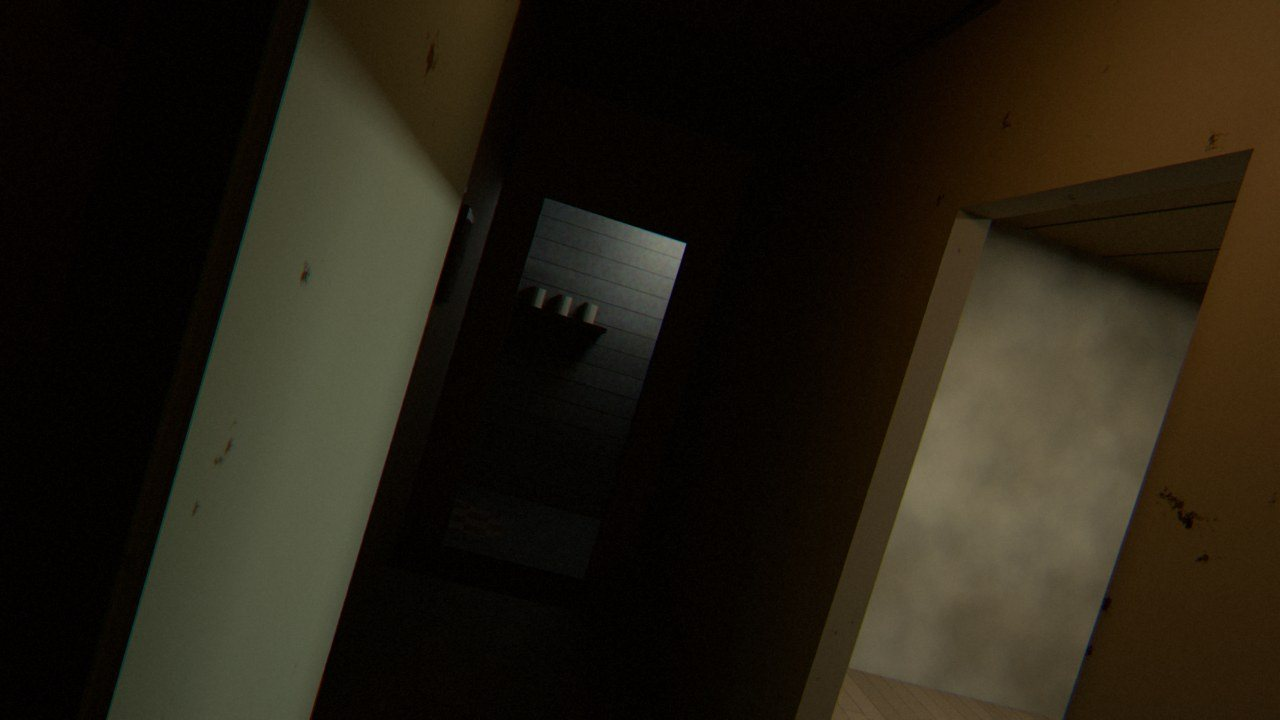
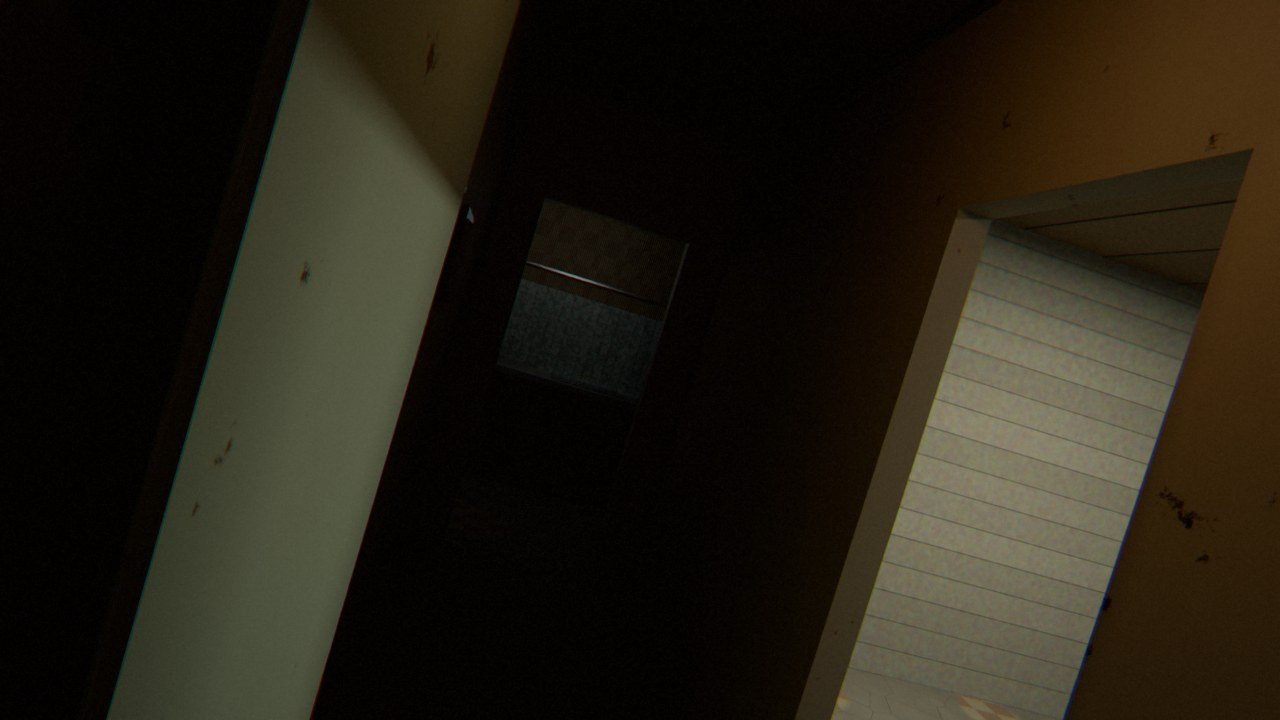
Chapter 1 door: the door swings shut across the tilted peek view; dark sala and kitchen
Claude-Session: https://claude.ai/code/session_017aRE9KzReX3GXwj8sX4dxv

Changed region(s): [[0.6562, 0.3972, 0.9375, 1.0], [0.375, 0.275, 0.5625, 0.4889]]

diff --git a/game/index.html b/game/index.html
@@ -1100,7 +1100,7 @@ if (typeof module !== 'undefined') module.exports = C1;
     'ringtone', 'phone_pickup', 'phone_hangup', 'line_static',
     'wing_flap', 'wing_flap_far', 'wind_gust', 'beetles', 'beetle_scatter', 'aparador_creak', 'kumot_breath', 'theme_menu',
     'step_w1', 'step_w2', 'step_w3', 'step_c1', 'step_c2', 'step_c3'];
-  IMG.push('c1_hub', 'c1_hub_open', 'c1_hub_kumot', 'c1_hub_lit', 'c1_door_ajar', 'c1_peek_0', 'c1_peek_1', 'c1_peek_2', 'c1_peek_3', 'c1_door_closed', 'c1_win_closed', 'c1_win_shadow', 'c1_win_open',
+  IMG.push('c1_door_sw40', 'c1_door_sw22', 'c1_door_sw8', 'c1_hub', 'c1_hub_open', 'c1_hub_kumot', 'c1_hub_lit', 'c1_door_ajar', 'c1_peek_0', 'c1_peek_1', 'c1_peek_2', 'c1_peek_3', 'c1_door_closed', 'c1_win_closed', 'c1_win_shadow', 'c1_win_open',
     'c1_win_s1', 'c1_win_s2', 'c1_win_s3', 'c1_scare_barang', 'hero_barang', 'c1_under', 'c1_under_kumot');
   for (var _i = 0; _i < 5; _i++) IMG.push('c1_cab_' + _i, 'c1_cab_' + _i + '_lit');
   var VOICE = [];
@@ -1735,7 +1735,7 @@ if (typeof module !== 'undefined') module.exports = C1;
     var g = game, p = g.p, H = g.house, k = g.k, s = g.s, b = g.b;
     if (p.travel) return lastKey || 'c1_hub';
     switch (p.pos) {
-      case 'door': return p.holdDoor ? 'c1_door_closed' : (p.peek > 0 ? 'c1_peek_' + peekSt : 'c1_door_ajar');
+      case 'door': if (swing) return swing.seq[swing.i]; return p.holdDoor ? 'c1_door_closed' : (p.peek > 0 ? 'c1_peek_' + peekSt : 'c1_door_ajar');
       case 'window':
         if (!H.curtain) return (s.st === 3) ? 'c1_win_shadow' : 'c1_win_closed';
         return s.st >= 1 ? 'c1_win_s' + Math.min(3, s.st) : 'c1_win_open';
@@ -1812,11 +1812,11 @@ if (typeof module !== 'undefined') module.exports = C1;
       case 'cue': play(d.id, { room: d.room, vol: d.vol || 1, delay: d.delay || 0 }); break;
       case 'travel': c1Travel(d); break;
       case 'arrive': if (d.to !== 'bed' && d.from !== 'bed') c1Arrive(d); break;
-      case 'door_shut': play('door_close_shut', { vol: 0.85 }); setView(true, true); jolt(); break;
+      case 'door_shut': if (isC1()) { c1Swing(true); break; } play('door_close_shut', { vol: 0.85 }); setView(true, true); jolt(); break;
       case 'peek': peekSt = d.st; play('flashlight_on', { vol: 0.5 }); play('door_creak', { vol: 0.3 }); setView(true, true); if (d.st === 3) { play('wheeze', { vol: 1 }); jolt(); flashRed(); } break;
       case 'kumot_startled': play('door_slam', { vol: 0.5, delay: 0.3 }); break;
       case 'silip_tear': play('curtain_open_pull', { vol: 1 }); break;
-      case 'door_release': play('door_creak', { vol: 0.35 }); setView(true, true); break;
+      case 'door_release': if (isC1()) { c1Swing(false); break; } play('door_creak', { vol: 0.35 }); setView(true, true); break;
       case 'kumot_leave': if (d.inside) play('door_creak', { vol: 0.6 }); play('scuffs_far', { room: 'hall', vol: 0.45 }); break;
       case 'kumot_enter': play('door_slam', { vol: 1 }); play('door_creak', { vol: 0.6, delay: 0.15 }); jolt(); flashRed(); setView(true, true); break;
       case 'kumot_search': play('lullaby_hum', { vol: 0.55 }); break;
@@ -1853,6 +1853,25 @@ if (typeof module !== 'undefined') module.exports = C1;
     // her breathing: only audible when you are at the door (that is the listening mechanic)
     if (g.k.on && !amb.kbreath) amb.kbreath = play('kumot_breath', { bus: 'amb', loop: true, vol: 0 });
     if (amb.kbreath) setLoopVol(amb.kbreath, g.k.st === 3 && pos === 'door' && !p.travel ? (p.holdDoor ? 0.6 : 0.9) : 0);
+  }
+  // the door swinging shut (or back open) in three pre-rendered frames, then the held/ajar view
+  var swing = null;
+  function c1Swing(close) {
+    var all = ['c1_door_sw40', 'c1_door_sw22', 'c1_door_sw8'], seq = close ? all : all.slice().reverse(), start = 0;
+    if (swing) { clearTimeout(swing.to); var cur = swing.seq[swing.i]; start = Math.max(0, seq.indexOf(cur)); }
+    swing = { seq: seq, i: start, close: close };
+    play(close ? 'door_creak' : 'door_creak', { vol: close ? 0.4 : 0.3 });
+    (function step() {
+      setView(true, true);
+      swing.to = setTimeout(function () {
+        if (!swing) return;
+        swing.i++;
+        if (swing.i >= swing.seq.length) {
+          var c = swing.close; swing = null; setView(true, true);
+          if (c) { play('door_close_shut', { vol: 0.85 }); jolt(); }
+        } else step();
+      }, close ? 75 : 95);
+    })();
   }
   function c1Hold() {
     var p = game.p, t = performance.now() / 1000, tr = '';
